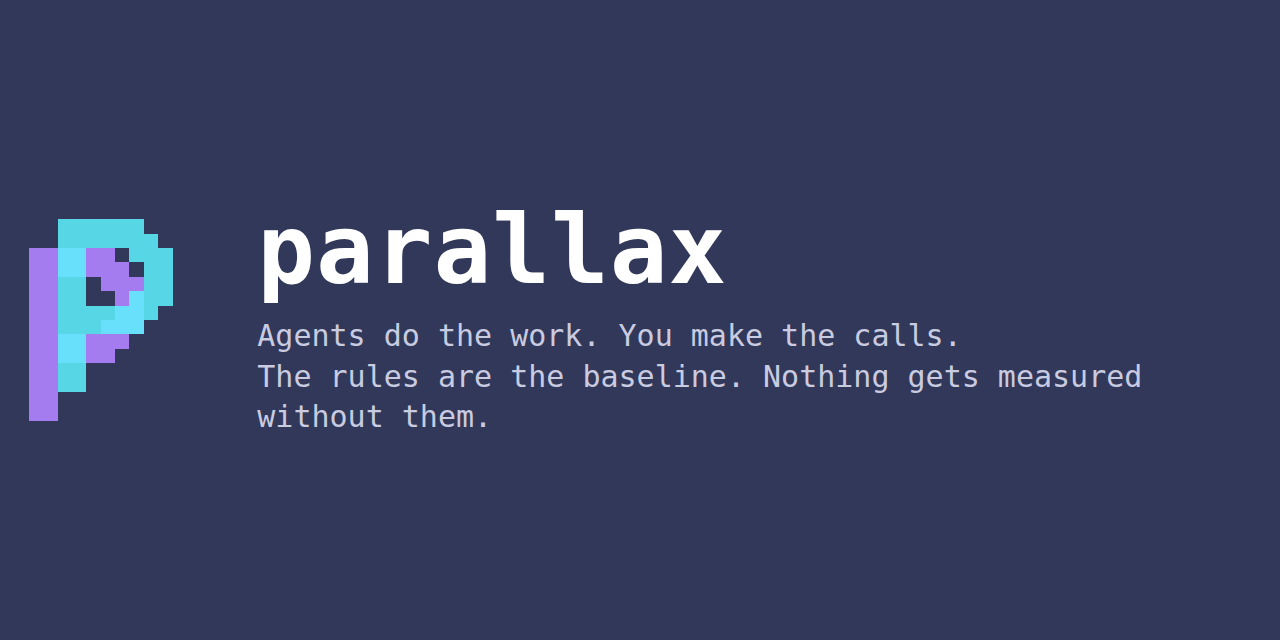
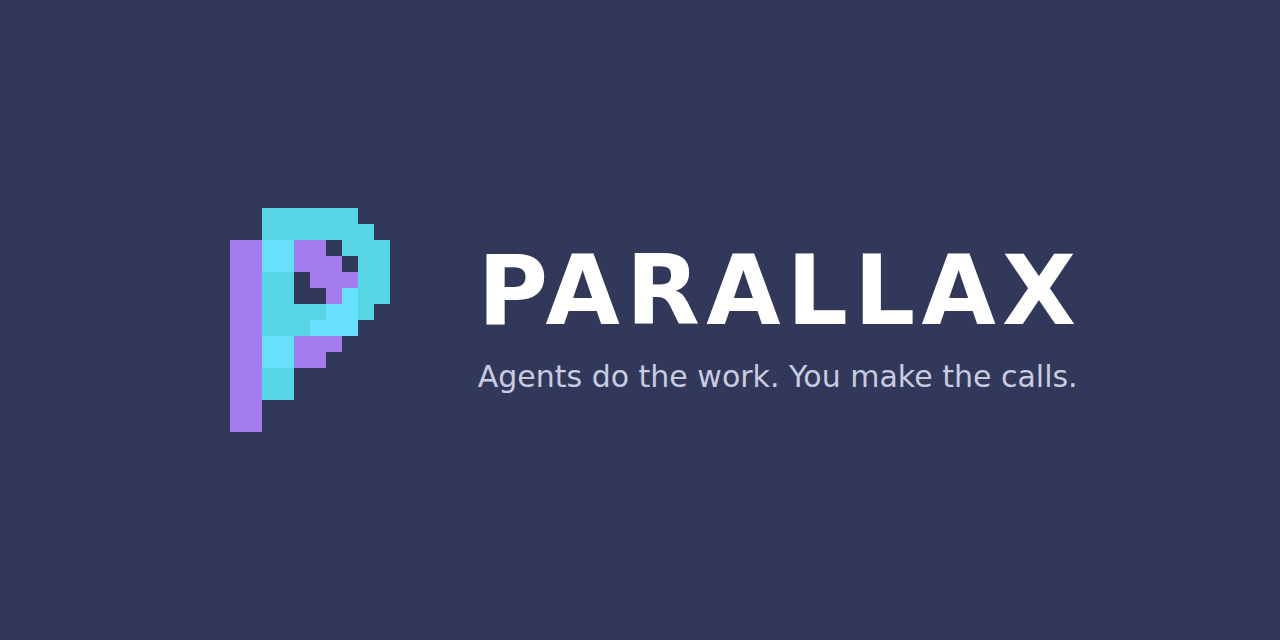
Brand: the social preview sets PARALLAX like the lockup, and is re-rendered
social.html's word is uppercase in the lockup's face, weight and tracking. social.png
is its render, made with a headless Chromium on Linux, where DejaVu Sans Bold stands
in for the system sans; the stale second line under the tagline is gone. The brand
README says how the PNG was made. The owner uploads it as the repository's social
preview by hand.

Changed region(s): [[0.0, 0.3125, 0.9062, 0.6875]]

diff --git a/docs/brand/social.html b/docs/brand/social.html
@@ -1,14 +1,14 @@
 <!doctype html>
-<html lang="en"><head><meta charset="utf-8"><title>parallax</title>
+<html lang="en"><head><meta charset="utf-8"><title>PARALLAX</title>
 <style>
   html, body { margin: 0; width: 1280px; height: 640px; background: #313859; color: #ffffff;
-    font-family: ui-monospace, SFMono-Regular, Menlo, Consolas, monospace; }
+    font-family: ui-sans-serif, system-ui, "Segoe UI", Helvetica, Arial, sans-serif; }
   .wrap { position: absolute; inset: 0; display: flex; align-items: center; justify-content: center; gap: 56px; }
   svg { width: 224px; height: 256px; shape-rendering: crispEdges; }
-  h1 { margin: 0; font-size: 96px; font-weight: 600; letter-spacing: 0.01em; line-height: 1; }
+  h1 { margin: 0; font-size: 96px; font-weight: 800; letter-spacing: 0.065em; line-height: 1; }
   p { margin: 18px 0 0; font-size: 30px; color: #c9cbe0; line-height: 1.35; }
 </style></head>
 <body><div class="wrap">
 <svg xmlns="http://www.w3.org/2000/svg" viewBox="0 0 14 16" aria-hidden="true"><g class="layer l1" fill="#a47cf0" opacity="1.0"><rect x="2" y="3" width="1" height="1"/><rect x="3" y="3" width="1" height="1"/><rect x="4" y="3" width="1" height="1"/><rect x="5" y="3" width="1" height="1"/><rect x="6" y="3" width="1" height="1"/><rect x="7" y="3" width="1" height="1"/><rect x="2" y="4" width="1" height="1"/><rect x="3" y="4" width="1" height="1"/><rect x="4" y="4" width="1" height="1"/><rect x="5" y="4" width="1" height="1"/><rect x="6" y="4" width="1" height="1"/><rect x="7" y="4" width="1" height="1"/><rect x="8" y="4" width="1" height="1"/><rect x="2" y="5" width="1" height="1"/><rect x="3" y="5" width="1" height="1"/><rect x="7" y="5" width="1" height="1"/><rect x="8" y="5" width="1" height="1"/><rect x="9" y="5" width="1" height="1"/><rect x="2" y="6" width="1" height="1"/><rect x="3" y="6" width="1" height="1"/><rect x="8" y="6" width="1" height="1"/><rect x="9" y="6" width="1" height="1"/><rect x="2" y="7" width="1" height="1"/><rect x="3" y="7" width="1" height="1"/><rect x="8" y="7" width="1" height="1"/><rect x="9" y="7" width="1" height="1"/><rect x="2" y="8" width="1" height="1"/><rect x="3" y="8" width="1" height="1"/><rect x="7" y="8" width="1" height="1"/><rect x="8" y="8" width="1" height="1"/><rect x="9" y="8" width="1" height="1"/><rect x="2" y="9" width="1" height="1"/><rect x="3" y="9" width="1" height="1"/><rect x="4" y="9" width="1" height="1"/><rect x="5" y="9" width="1" height="1"/><rect x="6" y="9" width="1" height="1"/><rect x="7" y="9" width="1" height="1"/><rect x="8" y="9" width="1" height="1"/><rect x="2" y="10" width="1" height="1"/><rect x="3" y="10" width="1" height="1"/><rect x="4" y="10" width="1" height="1"/><rect x="5" y="10" width="1" height="1"/><rect x="6" y="10" width="1" height="1"/><rect x="7" y="10" width="1" height="1"/><rect x="2" y="11" width="1" height="1"/><rect x="3" y="11" width="1" height="1"/><rect x="2" y="12" width="1" height="1"/><rect x="3" y="12" width="1" height="1"/><rect x="2" y="13" width="1" height="1"/><rect x="3" y="13" width="1" height="1"/><rect x="2" y="14" width="1" height="1"/><rect x="3" y="14" width="1" height="1"/></g><g class="layer l2" fill="#5ef2ff" opacity="0.85"><rect x="4" y="1" width="1" height="1"/><rect x="5" y="1" width="1" height="1"/><rect x="6" y="1" width="1" height="1"/><rect x="7" y="1" width="1" height="1"/><rect x="8" y="1" width="1" height="1"/><rect x="9" y="1" width="1" height="1"/><rect x="4" y="2" width="1" height="1"/><rect x="5" y="2" width="1" height="1"/><rect x="6" y="2" width="1" height="1"/><rect x="7" y="2" width="1" height="1"/><rect x="8" y="2" width="1" height="1"/><rect x="9" y="2" width="1" height="1"/><rect x="10" y="2" width="1" height="1"/><rect x="4" y="3" width="1" height="1"/><rect x="5" y="3" width="1" height="1"/><rect x="9" y="3" width="1" height="1"/><rect x="10" y="3" width="1" height="1"/><rect x="11" y="3" width="1" height="1"/><rect x="4" y="4" width="1" height="1"/><rect x="5" y="4" width="1" height="1"/><rect x="10" y="4" width="1" height="1"/><rect x="11" y="4" width="1" height="1"/><rect x="4" y="5" width="1" height="1"/><rect x="5" y="5" width="1" height="1"/><rect x="10" y="5" width="1" height="1"/><rect x="11" y="5" width="1" height="1"/><rect x="4" y="6" width="1" height="1"/><rect x="5" y="6" width="1" height="1"/><rect x="9" y="6" width="1" height="1"/><rect x="10" y="6" width="1" height="1"/><rect x="11" y="6" width="1" height="1"/><rect x="4" y="7" width="1" height="1"/><rect x="5" y="7" width="1" height="1"/><rect x="6" y="7" width="1" height="1"/><rect x="7" y="7" width="1" height="1"/><rect x="8" y="7" width="1" height="1"/><rect x="9" y="7" width="1" height="1"/><rect x="10" y="7" width="1" height="1"/><rect x="4" y="8" width="1" height="1"/><rect x="5" y="8" width="1" height="1"/><rect x="6" y="8" width="1" height="1"/><rect x="7" y="8" width="1" height="1"/><rect x="8" y="8" width="1" height="1"/><rect x="9" y="8" width="1" height="1"/><rect x="4" y="9" width="1" height="1"/><rect x="5" y="9" width="1" height="1"/><rect x="4" y="10" width="1" height="1"/><rect x="5" y="10" width="1" height="1"/><rect x="4" y="11" width="1" height="1"/><rect x="5" y="11" width="1" height="1"/><rect x="4" y="12" width="1" height="1"/><rect x="5" y="12" width="1" height="1"/></g></svg>
-<div><h1>parallax</h1><p>Agents do the work. You make the calls.</p></div>
+<div><h1>PARALLAX</h1><p>Agents do the work. You make the calls.</p></div>
 </div></body></html>

diff --git a/docs/brand/README.md b/docs/brand/README.md
@@ -14,7 +14,7 @@ A pixel P drawn twice, offset: a violet layer and a cyan one, the parallax. In t
 
 ## The lockup
 
-The animated P and the word PARALLAX, set like the other five tools' lockups: a system sans at weight 800 with wide tracking, stretched to a fixed length, so the six read as one set. The UI's header keeps its lowercase monospace word, and so does the social preview below. An image can't see the page's theme, so the README picks the file with a `<picture>`: [lockup-animated-dark.svg](lockup-animated-dark.svg) on dark pages, [lockup-animated-light.svg](lockup-animated-light.svg) on light ones. It is the README's heading.
+The animated P and the word PARALLAX, set like the other five tools' lockups: a system sans at weight 800 with wide tracking, stretched to a fixed length, so the six read as one set. The UI's header keeps its lowercase monospace word. An image can't see the page's theme, so the README picks the file with a `<picture>`: [lockup-animated-dark.svg](lockup-animated-dark.svg) on dark pages, [lockup-animated-light.svg](lockup-animated-light.svg) on light ones. It is the README's heading.
 
 ## The agents
 
@@ -35,4 +35,4 @@ Focus, Reticle, Maker, Second Eye and Field, one pixel portrait each on its tile
 
 ## The social preview
 
-[social.html](social.html) is the source: 1280 by 640, the P, the word and the tagline on the UI's tile color. [social.png](social.png) is its render, uploaded by hand as the GitHub repository's social preview. There is no script for the render. The PNG still shows a second line under the tagline that the source no longer has; the next render drops it.
+[social.html](social.html) is the source: 1280 by 640, the P, the word PARALLAX in the lockup's face and the tagline on the UI's tile color. [social.png](social.png) is its render, uploaded by hand as the GitHub repository's social preview. There is no script for the render; the current PNG was made on 2026-10-25 with a headless Chromium on Linux, where DejaVu Sans Bold stood in for the system sans.
